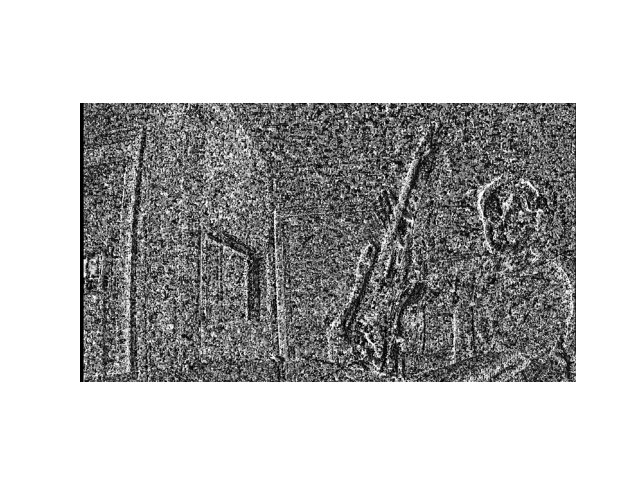
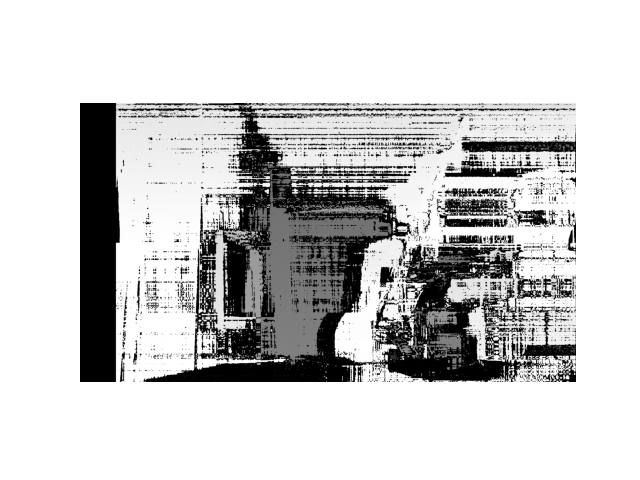
new changes

diff --git a/zed_cam/disparity_create.py b/zed_cam/disparity_create.py
@@ -6,6 +6,10 @@ import numpy as np
 calibration_dir = "zed_cam/data/calibration.yaml"
 calibration_file = cv2.FileStorage(calibration_dir, cv2.FILE_STORAGE_READ)
 Kl = np.array(calibration_file.getNode('Kl').mat())
+Dl = np.array(calibration_file.getNode('Dl').mat())
+Kr = np.array(calibration_file.getNode('Kr').mat())
+Dr = np.array(calibration_file.getNode('Dr').mat())
+R = np.array(calibration_file.getNode('R').mat())
 T = np.array(calibration_file.getNode('T').mat())   
 calibration_file.release()
 
@@ -30,8 +34,53 @@ plt.show()
 imgL = cv2.cvtColor(imgL, cv2.COLOR_BGR2GRAY)
 imgR = cv2.cvtColor(imgR, cv2.COLOR_BGR2GRAY)
 
-stereo = cv2.StereoSGBM_create()
-disparity_map = stereo.compute(imgL, imgR).astype(np.float32)/16
+# retificacao
+R1, R2, P1, P2, Q, _, _ = cv2.stereoRectify(Kl, Dl, Kr, Dr, (imgL.shape[1], imgL.shape[0]), R, T)
+
+# mapas de remapeamento
+map1_left, map2_left = cv2.initUndistortRectifyMap(Kl, Dl, R1, P1, (imgL.shape[1], imgL.shape[0]), cv2.CV_32FC1)
+map1_right, map2_right = cv2.initUndistortRectifyMap(Kr, Dr, R2, P2, (imgR.shape[1], imgR.shape[0]), cv2.CV_32FC1)
+
+# aplicar remapeamento para retificar as imagens
+rectified_left = cv2.remap(imgL, map1_left, map2_left, cv2.INTER_LINEAR)
+rectified_right = cv2.remap(imgR, map1_right, map2_right, cv2.INTER_LINEAR)
+
+# juntar as imagens normais e retificadas, para visualizacao
+image_normal = np.hstack((imgL, imgR))
+image_combined = np.hstack((rectified_left, rectified_right))
+
+# desenhar as linhas epipolares
+for i in range(0, image_combined.shape[1], 50):
+    cv2.line(image_combined, (0, i), (image_combined.shape[1], i), (0, 0, 0), 4)
+    cv2.line(image_normal, (0, i), (image_normal.shape[1], i), (0, 0, 0), 4)
+    
+plt.figure(figsize=(10, 5))
+plt.imshow(image_normal, cmap='gray')
+plt.title('Unrectified Images')
+plt.axis('off')
+plt.show()
+
+plt.figure(figsize=(10, 5))
+plt.imshow(image_combined, cmap='gray')
+plt.title('Rectified Images')
+plt.axis('off')
+plt.show()
+window_size = 15                 
+stereo = cv2.StereoSGBM_create(
+    minDisparity=0,
+    numDisparities=160,             
+    blockSize=5,
+    P1=8 * 1 * window_size ** 2,    
+    P2=32 * 1 * window_size ** 2,
+    disp12MaxDiff=1,
+    uniquenessRatio=15,
+    speckleWindowSize=0,
+    speckleRange=2,
+    preFilterCap=63,
+    mode=cv2.STEREO_SGBM_MODE_SGBM_3WAY
+)
+
+disparity_map = stereo.compute(rectified_left, rectified_right).astype(np.float32)/16
 
 plt.imshow(disparity_map, cmap='gray')
 plt.axis('off')
